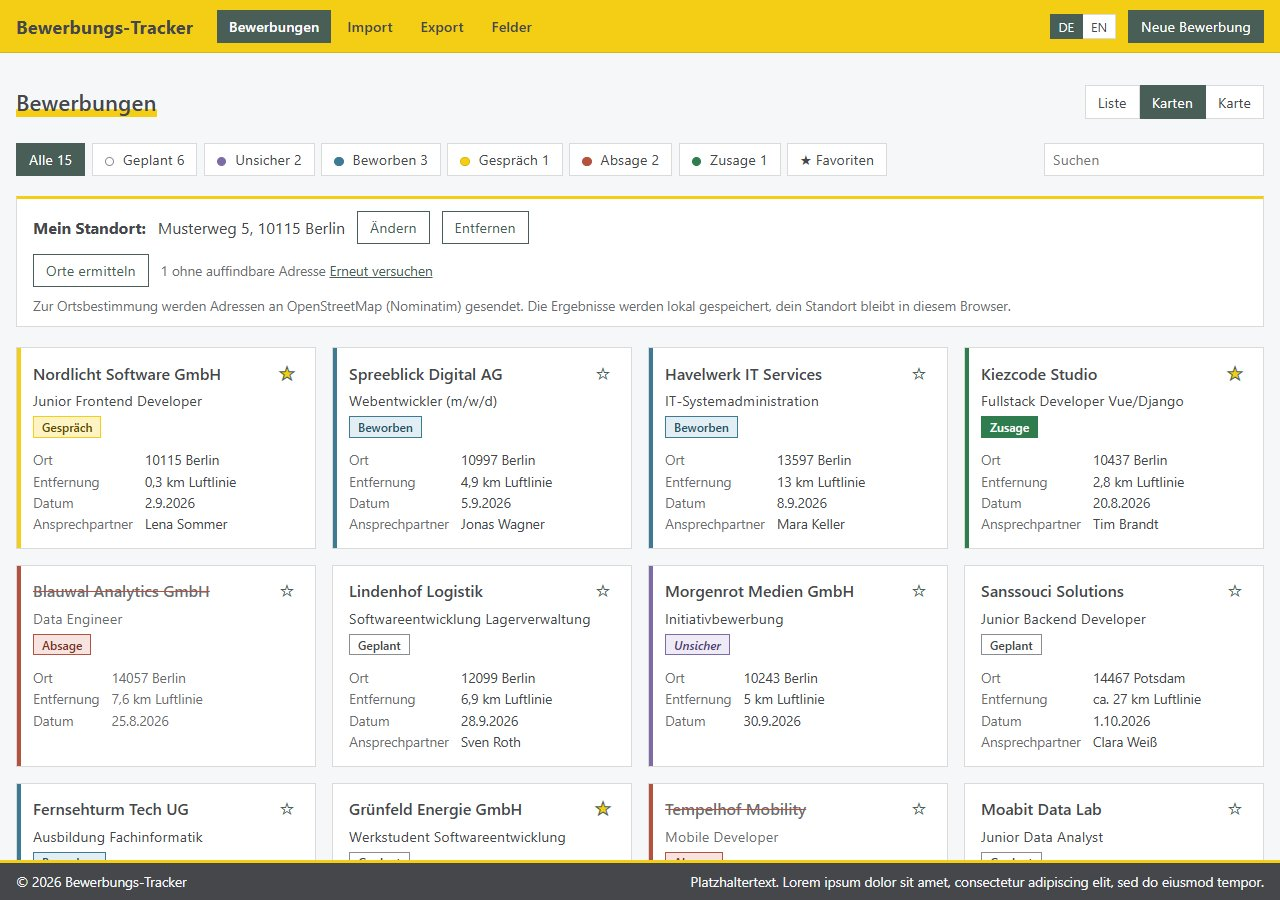
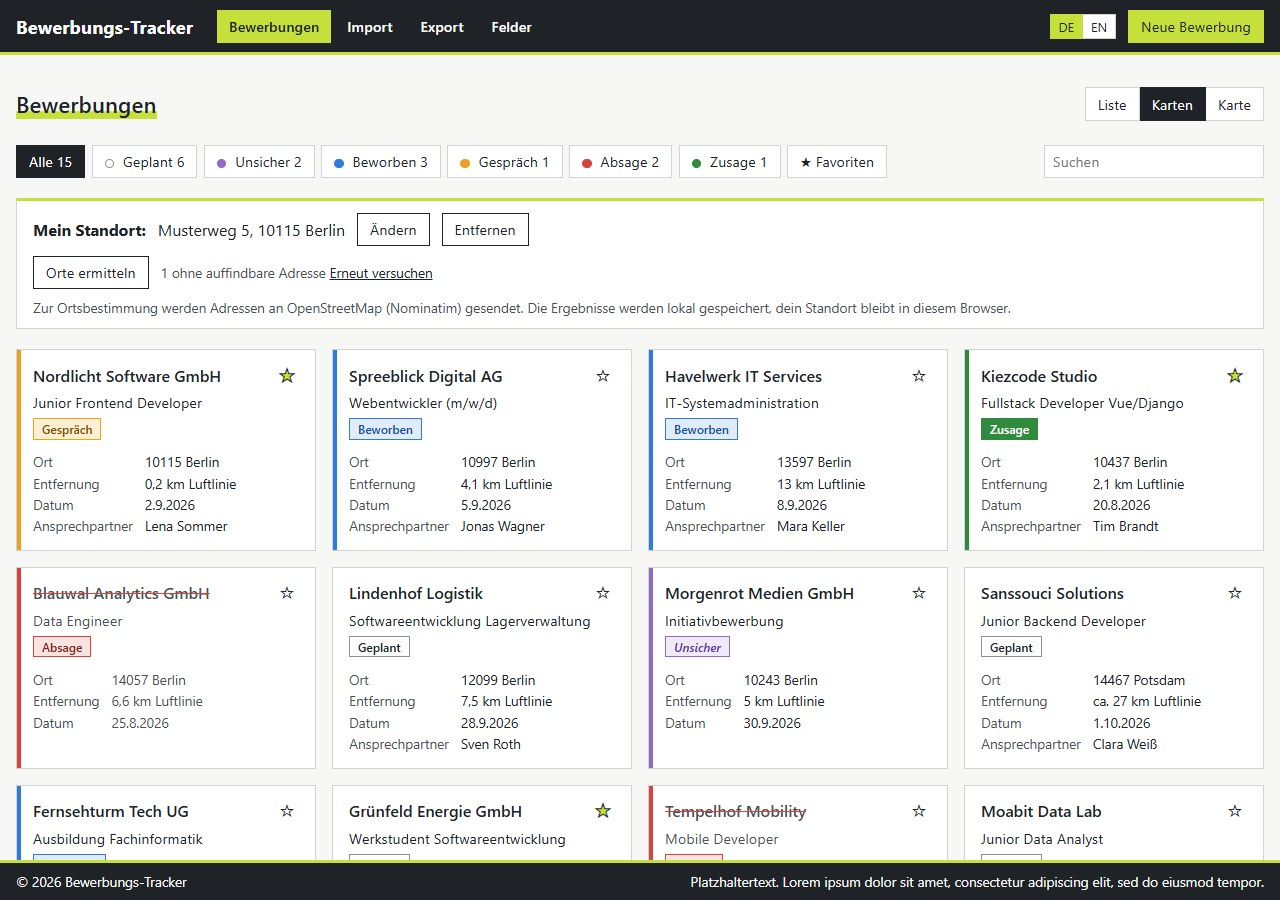
Switch to black and lime color palette and update README screenshots
Dark header with lime accent, new status colors with amber for interview, matching map marker colors and fresh screenshots with demo data.

diff --git a/frontend/src/style.css b/frontend/src/style.css
@@ -1,24 +1,24 @@
 :root {
-  --bg: #F5F7F8;
+  --bg: #F7F7F5;
   --surface: #FFFFFF;
-  --yellow: #F4CE14;
-  --yellow-soft: #FDF3C4;
-  --yellow-line: #D9B70F;
-  --yellow-ink: #5C4A00;
-  --green: #495E57;
-  --ink: #45474B;
-  --mid: rgba(69, 71, 75, .8);
-  --line: rgba(69, 71, 75, .2);
-  --tint: rgba(73, 94, 87, .1);
-  --danger: #B5523F;
-  --danger-soft: #F7E4E1;
-  --danger-ink: #7A3022;
+  --yellow: #C6E03B;
+  --interview: #F0A020;
+  --interview-soft: #FDEFD2;
+  --interview-ink: #7A4C05;
+  --green: #1F2328;
+  --ink: #1F2328;
+  --mid: rgba(31, 35, 40, .8);
+  --line: rgba(31, 35, 40, .2);
+  --tint: rgba(31, 35, 40, .06);
+  --danger: #D6453D;
+  --danger-soft: #FBE3E1;
+  --danger-ink: #85201B;
 
   /* Status colors: line/marker, light background, text on that background */
-  --planned: #8A8C90;
-  --unsure: #7D6BA8; --unsure-soft: #EEEAF6; --unsure-ink: #4E4075;
-  --applied: #3D7A94; --applied-soft: #E3EEF4; --applied-ink: #24546A;
-  --offer: #2F7D4F;
+  --planned: #8E9094;
+  --unsure: #8F6BC4; --unsure-soft: #EFE9F8; --unsure-ink: #57359A;
+  --applied: #2F7BE0; --applied-soft: #E1ECFB; --applied-ink: #1B4E9C;
+  --offer: #2F8A3E;
   font-family: system-ui, -apple-system, 'Segoe UI', sans-serif; color: var(--ink);
 }
 * { box-sizing: border-box; }
@@ -28,16 +28,18 @@ main { width: 100%; max-width: 1400px; margin: 0 auto; padding: 2rem 1rem 3rem; 
 h1 { display: inline-block; margin: 0 0 1.5rem; font-size: 1.4rem; font-weight: 600; box-shadow: inset 0 -.35em 0 var(--yellow); }
 
 /* ---- site header and footer ---- */
-.site-header { background: var(--yellow); color: var(--ink); border-bottom: 1px solid var(--yellow-line); }
+.site-header { background: var(--green); color: var(--surface); border-bottom: 3px solid var(--yellow); }
 .site-footer { background: var(--ink); color: var(--bg); border-top: 3px solid var(--yellow); position: sticky; bottom: 0; z-index: 1100; }
 .bar { max-width: 1400px; margin: 0 auto; padding: .6rem 1rem; display: flex; flex-wrap: wrap; align-items: center; gap: .5rem 1.5rem; }
-.brand { font-size: 1.15rem; font-weight: 700; color: var(--ink); text-decoration: none; }
+.brand { font-size: 1.15rem; font-weight: 700; color: var(--surface); text-decoration: none; }
 .site-nav { display: flex; flex-wrap: wrap; gap: .25rem; }
-.site-nav button { border: none; background: none; color: var(--ink); font-weight: 600; padding: .4rem .75rem; }
-.site-nav button:hover { background: rgba(69, 71, 75, .12); }
-.site-nav button.active { background: var(--green); color: var(--surface); }
+.site-nav button { border: none; background: none; color: var(--surface); font-weight: 600; padding: .4rem .75rem; }
+.site-nav button:hover { background: rgba(255, 255, 255, .14); }
+.site-nav button.active { background: var(--yellow); color: var(--ink); }
 .bar-end { margin-left: auto; display: flex; flex-wrap: wrap; gap: .75rem; align-items: center; }
-.site-header :focus-visible { outline-color: var(--ink); }
+.site-header :focus-visible { outline-color: var(--yellow); }
+.site-header button.primary { background: var(--yellow); border-color: var(--yellow); color: var(--ink); }
+.site-header button.primary:hover { background: var(--surface); }
 .site-footer .bar { justify-content: space-between; padding-top: .6rem; padding-bottom: .6rem; font-size: .85rem; }
 .site-footer p { margin: 0; }
 
@@ -52,6 +54,7 @@ button:focus-visible, input:focus-visible, select:focus-visible, textarea:focus-
 .lang button { padding: .2rem .5rem; font-size: .8rem; border-color: var(--line); color: var(--ink); }
 .lang button + button { border-left: none; }
 .lang button.active { background: var(--green); border-color: var(--green); color: var(--surface); }
+.site-header .lang button.active { background: var(--yellow); border-color: var(--yellow); color: var(--ink); }
 
 .filters { display: flex; flex-wrap: wrap; gap: .4rem; margin-bottom: 1.25rem; align-items: center; }
 .filters button { border-color: var(--line); color: var(--ink); }
@@ -86,20 +89,20 @@ tr.unsure td { font-style: italic; }
 tr.planned td:first-child { box-shadow: inset 4px 0 0 var(--planned); }
 tr.unsure td:first-child { box-shadow: inset 4px 0 0 var(--unsure); }
 tr.applied td:first-child { box-shadow: inset 4px 0 0 var(--applied); }
-tr.interview td:first-child { box-shadow: inset 4px 0 0 var(--yellow); }
+tr.interview td:first-child { box-shadow: inset 4px 0 0 var(--interview); }
 tr.rejected td { color: var(--mid); }
 tr.rejected td:first-child { box-shadow: inset 4px 0 0 var(--danger); }
 tr.rejected a, tr.rejected .name { color: var(--mid); text-decoration: line-through; text-decoration-color: var(--danger); }
 tr.offer td { font-weight: 700; }
 tr.offer td:first-child { box-shadow: inset 4px 0 0 var(--offer); }
-.overdue { font-weight: 700; background: var(--yellow-soft); box-shadow: inset 3px 0 0 var(--yellow); color: var(--ink); }
-tbody tr:hover td.overdue { background: var(--yellow-soft); }
+.overdue { font-weight: 700; background: var(--interview-soft); box-shadow: inset 3px 0 0 var(--interview); color: var(--ink); }
+tbody tr:hover td.overdue { background: var(--interview-soft); }
 
 .empty, .error { padding: 1.5rem 0; margin: 0; color: var(--mid); }
 .error { color: var(--danger-ink); background: var(--danger-soft); font-weight: 600; box-shadow: inset 4px 0 0 var(--danger); padding: .75rem 1rem; }
 
 /* ---- dialogs ---- */
-.overlay { position: fixed; inset: 0; z-index: 1200; background: rgba(245, 247, 248, .9); display: grid; place-items: center; padding: 1rem; overflow-y: auto; }
+.overlay { position: fixed; inset: 0; z-index: 1200; background: rgba(247, 247, 245, .9); display: grid; place-items: center; padding: 1rem; overflow-y: auto; }
 .dialog { background: var(--surface); border: 1px solid var(--green); border-top: 4px solid var(--yellow); padding: 1.5rem; width: min(640px, 100%); display: grid; grid-template-columns: 1fr 1fr; grid-auto-flow: dense; gap: .8rem; }
 .dialog h2 { grid-column: 1 / -1; margin: 0; font-size: 1.1rem; font-weight: 600; }
 .dialog label { display: grid; gap: .25rem; font-size: .85rem; color: var(--mid); }
@@ -174,7 +177,7 @@ button.link { border: none; background: none; padding: 0; color: var(--green); t
 .card:focus-visible { outline: 2px solid var(--green); outline-offset: 2px; }
 .card.unsure { box-shadow: inset 4px 0 0 var(--unsure); }
 .card.applied { box-shadow: inset 4px 0 0 var(--applied); }
-.card.interview { box-shadow: inset 4px 0 0 var(--yellow); }
+.card.interview { box-shadow: inset 4px 0 0 var(--interview); }
 .card.offer { box-shadow: inset 4px 0 0 var(--offer); }
 .card.rejected { color: var(--mid); box-shadow: inset 4px 0 0 var(--danger); }
 .card.rejected .card-title { text-decoration: line-through; text-decoration-color: var(--danger); }
@@ -187,7 +190,7 @@ button.link { border: none; background: none; padding: 0; color: var(--green); t
 .badge { align-self: start; font-size: .75rem; font-weight: 600; padding: .1rem .5rem; border: 1px solid var(--planned); background: var(--surface); color: var(--ink); }
 .badge.unsure { background: var(--unsure-soft); border-color: var(--unsure); color: var(--unsure-ink); font-style: italic; }
 .badge.applied { background: var(--applied-soft); border-color: var(--applied); color: var(--applied-ink); }
-.badge.interview { background: var(--yellow-soft); border-color: var(--yellow); color: var(--yellow-ink); }
+.badge.interview { background: var(--interview-soft); border-color: var(--interview); color: var(--interview-ink); }
 .badge.rejected { background: var(--danger-soft); border-color: var(--danger); color: var(--danger-ink); }
 .badge.offer { background: var(--offer); border-color: var(--offer); color: var(--surface); }
 select.badge { width: auto; padding: .2rem .4rem; font-size: .8rem; cursor: pointer; }
@@ -197,7 +200,7 @@ select.badge option { background: var(--surface); color: var(--ink); font-style:
 .swatch { display: inline-block; width: .6rem; height: .6rem; border-radius: 50%; margin-right: .3rem; border: 1.5px solid var(--planned); background: var(--surface); vertical-align: -1px; }
 .swatch.unsure { background: var(--unsure); border-color: var(--unsure); }
 .swatch.applied { background: var(--applied); border-color: var(--applied); }
-.swatch.interview { background: var(--yellow); border-color: var(--yellow-line); }
+.swatch.interview { background: var(--interview); border-color: var(--interview); }
 .swatch.rejected { background: var(--danger); border-color: var(--danger); }
 .swatch.offer { background: var(--offer); border-color: var(--offer); }
 .filters button.active .swatch { border-color: var(--surface); }

diff --git a/frontend/src/components/CompanyMap.vue b/frontend/src/components/CompanyMap.vue
@@ -17,11 +17,11 @@ let lastFit = ''
 // Same status colors as in style.css (--planned, --unsure, ...). Planned is a white dot with a dark ring.
 const COLORS = {
   planned: '#FFFFFF',
-  unsure: '#7D6BA8',
-  applied: '#3D7A94',
-  interview: '#F4CE14',
-  rejected: '#B5523F',
-  offer: '#2F7D4F',
+  unsure: '#8F6BC4',
+  applied: '#2F7BE0',
+  interview: '#F0A020',
+  rejected: '#D6453D',
+  offer: '#2F8A3E',
 }
 
 const placed = computed(() => props.items.filter(hasCoords))
@@ -96,7 +96,7 @@ function draw() {
     const marker = L.circleMarker(latlng, {
       radius: 8,
       weight: item.geo_precision === 'city' ? 2 : 1.5,
-      color: '#45474B',
+      color: '#1F2328',
       dashArray: item.geo_precision === 'city' ? '3 3' : null,
       fillColor: COLORS[item.status] ?? COLORS.planned,
       fillOpacity: item.geo_precision === 'city' ? 0.55 : 0.9,
@@ -106,7 +106,7 @@ function draw() {
       line?.remove()
       if (home.value) {
         line = L.polyline([[home.value.latitude, home.value.longitude], [item.latitude, item.longitude]], {
-          color: '#495E57',
+          color: '#1F2328',
           weight: 2,
           dashArray: '6 6',
         }).addTo(map)

diff --git a/README.md b/README.md
@@ -196,7 +196,7 @@ The tests cover the API (search, ordering, file cleanup), attachment uploads and
 
 - **Navigation:** the header gives access to the list, the import, the export and the field settings. The application name and the Applications entry reset search and filters.
 - **New application:** use the button in the header. Only the company is required.
-- **Status:** change it directly in the table, or filter by it with the buttons above the table. Each status has its own color: planned (gray), unsure (violet), applied (petrol), interview (yellow), rejected (rust, name crossed out) and offer (green). The colors are defined as CSS variables at the top of `frontend/src/style.css`.
+- **Status:** change it directly in the table, or filter by it with the buttons above the table. Each status has its own color: planned (gray), unsure (violet), applied (blue), interview (amber), rejected (red, name crossed out) and offer (green). The colors are defined as CSS variables at the top of `frontend/src/style.css`.
 - **Favorites:** click the star in the table. The favorites button filters the list.
 - **Details:** click a row to open the detail dialog. There you can also edit, delete and manage documents.
 - **Fields:** the Fields entry lets you choose the visible table columns and the visible form fields. The company and the status are always shown. The selection is stored in the browser.
